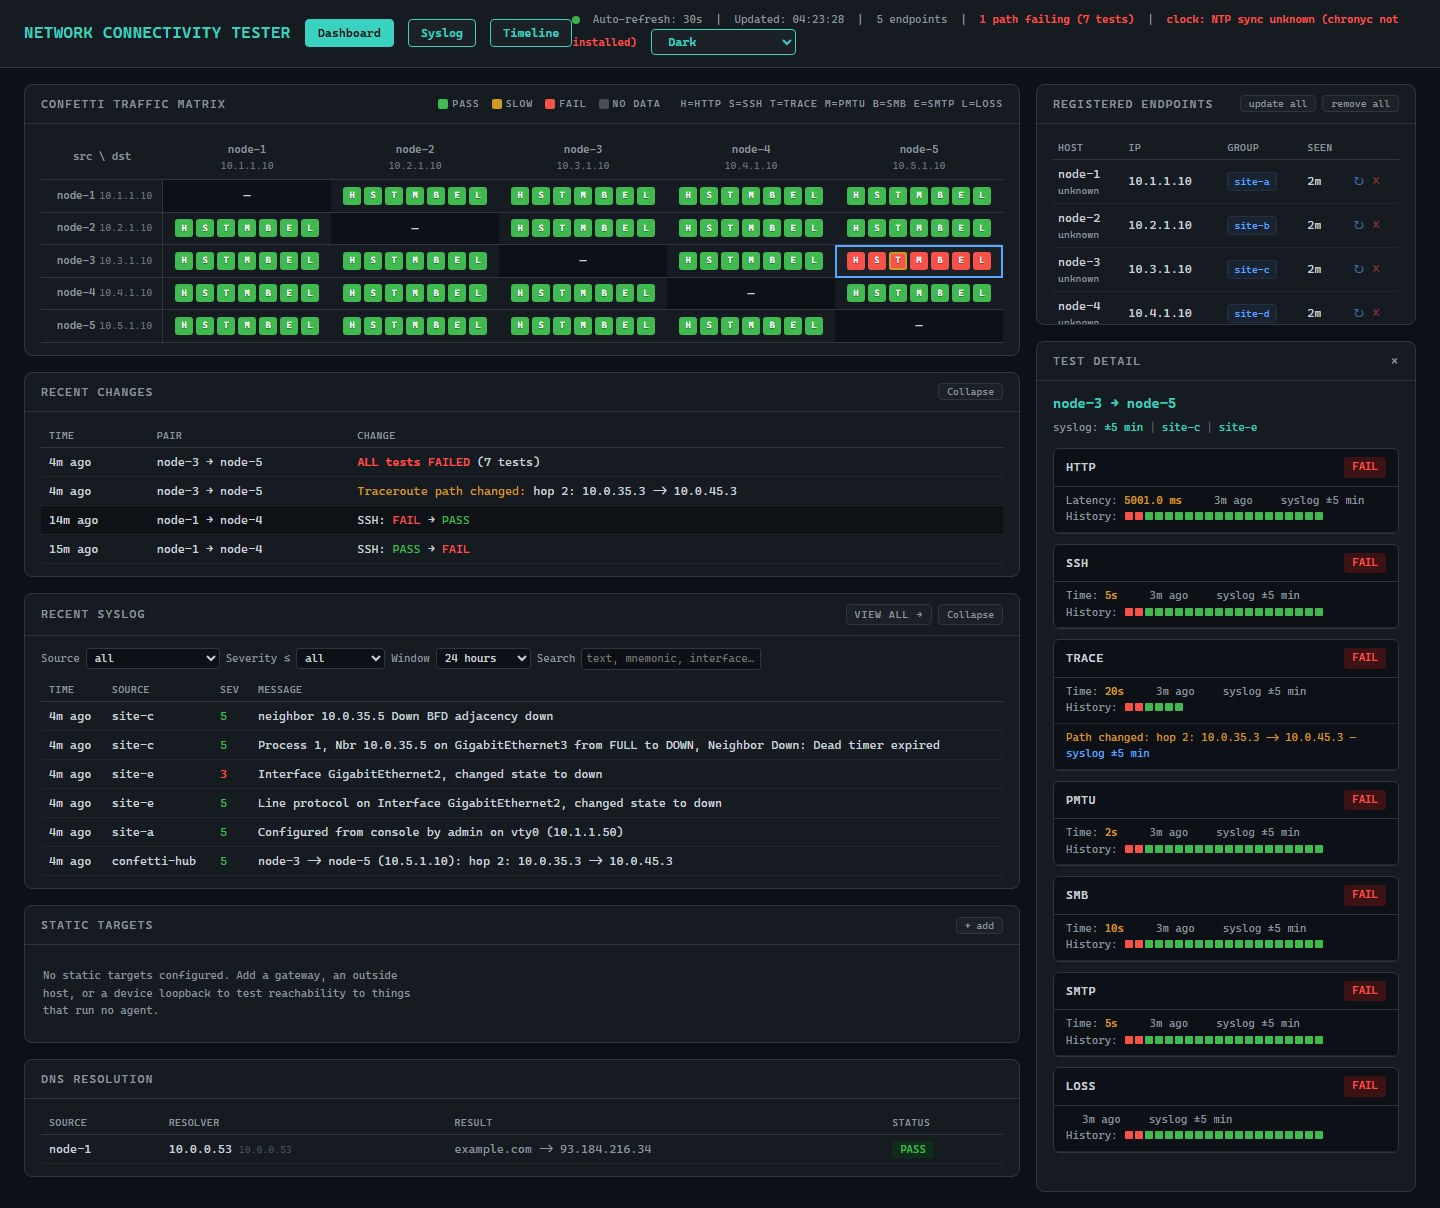
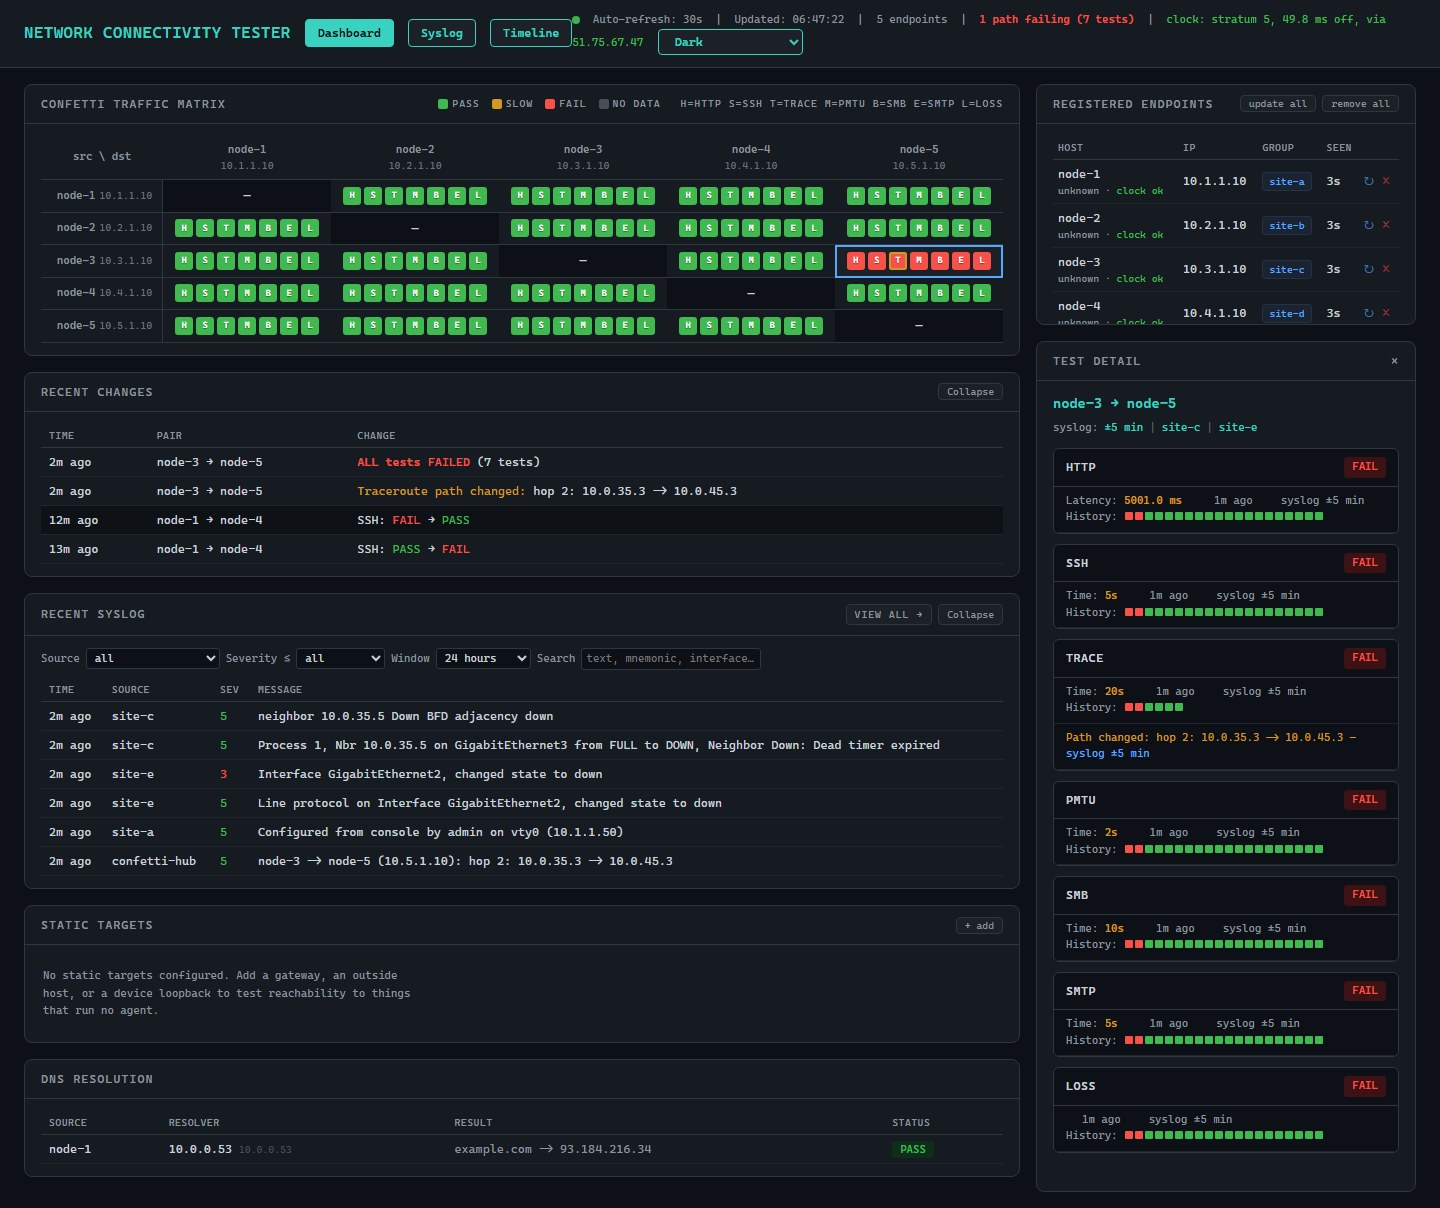
Docs and images for mesh rules, hub NTP and node clock state
- README: excluded-pair cell in the matrix note, mesh rules both ways and
  same-group, "One clock" paragraph (hub serves NTP, per-node clock state).
- QUICKSTART: HUB_NTP node key; NTP UDP/123 in the ports table.
- BUILD_GUIDE: time from the hub in 5.4, mesh rules how-to in 6.1, mesh
  rules hint under Tests failing.
- dashboard-mock.jpg and hub-pages.gif recaptured from an Alpine hub
  container with real chrony: "clock ok" per node, synced hub clock, and
  the tour gains a Mesh Settings / Mesh Rules frame with a branch-7 <->
  site-b rule shown as excluded cells (7 frames).

diff --git a/docs/BUILD_GUIDE.md b/docs/BUILD_GUIDE.md
@@ -241,6 +241,14 @@ re-run: it keeps an existing config.
 `HUB_MANAGED=false` in the config removes the management key, and the hub
 then won't push to that node.
 
+**Time from the hub.** Setup writes the node's `/etc/chrony/chrony.conf` with
+the hub (taken from `HUB_URL`) as its only time server. The hub serves NTP on
+UDP/123, and with no internet it serves its own clock, so the whole lab still
+agrees on one time. Each node reports its sync state when it registers, shown
+under its name on the dashboard. `HUB_NTP=false` in the config leaves
+`chrony.conf` alone. Both builds also pin IP forwarding off
+(`/etc/sysctl.d/99-confetti.conf`).
+
 ### 5.5 Alternative: install a node straight from the hub
 
 No template and no GitHub needed. On a plain Alpine VM (after
@@ -330,6 +338,14 @@ throughput when you ask. It isn't part of the minute-by-minute tests.
   duration in each direction, so avoid running it on a busy production link.
 - **Results:** every run is listed under the panel (the last 200), with
   Mbit/s for each direction. Hover over a failed run to see why it failed.
+
+**Mesh rules.** By default every node tests every other node. The
+dashboard's **Mesh Rules** panel excludes pairs of groups: type or pick two
+groups and press add. Nodes in those groups stop testing each other, both
+ways and for every test, from their next cycle (about a minute). The same
+group twice stops nodes in one group testing each other. An excluded pair
+shows as a muted dot in the matrix and isn't counted as passing or failing.
+Static targets are not affected. Remove the rule to go back to full mesh.
 
 ### 6.2 Static targets
 
@@ -496,6 +512,9 @@ fping -c 5 <peer-ip>
 nc <peer-ip> 25          # wait for the 220 line, then type EHLO test, then QUIT
 traceroute <peer-ip>
 ```
+
+A pair with no results at all may be excluded on purpose: check the Mesh
+Rules panel (or `curl http://<hub>/mesh-rules`).
 
 Usual causes: the service isn't running on the peer (dropbear,
 `confettid-httpd`, `iperf3`, `confettid-smbd`, `confettid-smtpd`), or a

diff --git a/README.md b/README.md
@@ -22,7 +22,8 @@ synthetic 6-node mesh.*
 
 Every node tests every other node once a minute and sends the results to the
 hub. Each cell in the dashboard's Confetti traffic matrix shows one letter per test: green
-passed, yellow slow, red failed, grey no data.
+passed, yellow slow, red failed, grey no data. A muted dot instead of letters
+means a mesh rule excludes that pair (below).
 
 | Letter | Test | What it checks | Runs |
 |---|---|---|---|
@@ -41,7 +42,14 @@ whole mesh from the dashboard's Mesh Settings panel.
 
 Every node tests every other node by default. The dashboard's Mesh Rules
 panel can exclude pairs of groups, for example to stop two branch sites
-testing each other when only their paths to the data centre matter.
+testing each other when only their paths to the data centre matter. A rule
+works both ways and covers every test; the same group twice stops nodes in
+one group testing each other.
+
+**One clock.** The hub serves time (NTP) to the lab, and nodes sync to it, so
+results and syslog line up even with no internet. Each node's clock state
+shows under its name on the dashboard: "clock ok", or in yellow when it is
+unsynced or more than a second off.
 
 **Static targets** are addresses that run no Confetti Traffic software, such as a
 gateway, a switch loopback or an outside server. You add them once on the

diff --git a/docs/QUICKSTART.md b/docs/QUICKSTART.md
@@ -13,6 +13,7 @@ reachable.
 |---|---|---|
 | Dashboard / API | hub, `confettid-hub` (waitress) | 80 |
 | Syslog receiver (optional, UDP) | hub, same process | 514 |
+| NTP for the lab (UDP) | hub, `chronyd` | 123 |
 | HTTP test target | node, `confettid-httpd` | 80 |
 | SSH test target | node, dropbear | 22 |
 | SMB test target (opt-in) | node, `confettid-smbd` | 445 |
@@ -78,6 +79,7 @@ The root password (`lab123`) is set at build time. Override it with
 | `DNS_QUERY` | no | default `example.com` |
 | `ENABLE_IPERF` / `ENABLE_SMB` / `ENABLE_SMTP` | no | default false; overridden by the dashboard's Mesh Settings when set there |
 | `HUB_SETTINGS` | no | default true; false ignores the dashboard's Mesh Settings |
+| `HUB_NTP` | no | default true; `confettictl-setup.sh` points chrony at the hub. false leaves `chrony.conf` alone |
 | `AGENT_AUTOUPDATE` | no | default true |
 
 If `HUB_URL`, `GROUP_NAME` or `SUBNET` is empty, `confettictl-register.sh` exits and the
